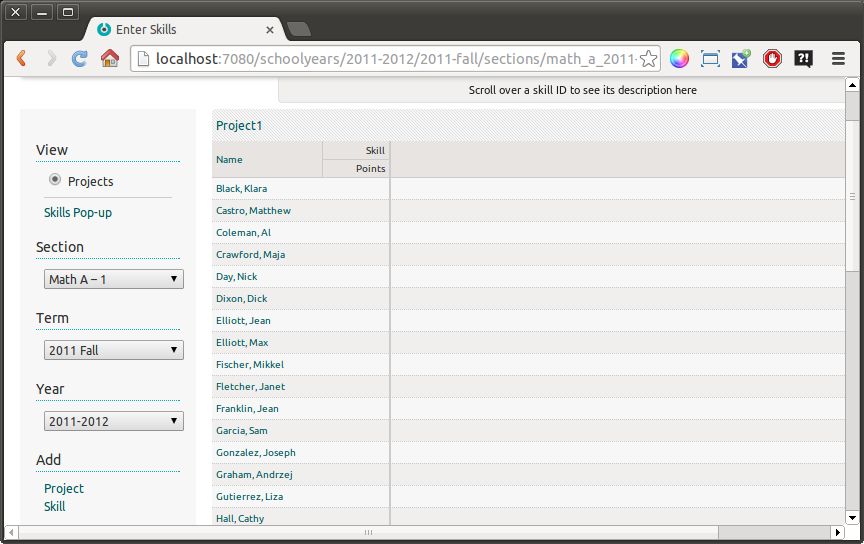
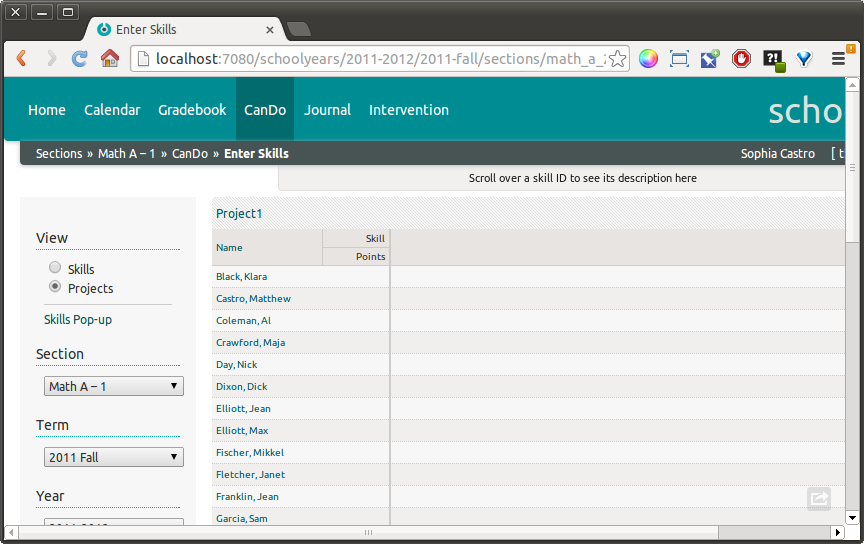
Added CanDo project docs.

diff --git a/source/cando-project.rst b/source/cando-project.rst
@@ -1,7 +1,20 @@
+Using Project Worksheets
+========================
+
+The "Skills" view of a teacher's CanDo gradebook is organized by Skill Sets assigned to the course.
+
+The "Projects" view allows teachers to add individual skills to a section, and organize them freely.  
+
+.. NOTE::
+   
+   Scores entered in the **Projects** worksheets are "inherited" by the **Skill Set** worksheets, but not vice versa.  For example, if Skill A has a score of "2" in the **Skill Set** worksheet, and a new Project is created containing Skill A, no score will appear in the Project worksheet.  This reflects the fact that the Project has not been evaluated, the skill has not been evaluated in the context of the project.  The Score History in the Project worksheet only shows the scores entered in the project.
+   
+   Once Skill A is evaluated in the project, the core will also appear in the **Skill Sets** view and Score History.  If it is subsequently updated in the **Skill Sets** view, the score in the **Projects** worksheet will not be updated.
+
 Adding Skills to Projects
 -------------------------
 
-A teacher gradebook with no skills assigned to the course will look like this:
+Click the **View: Projects** radio button in the left sidebar:
 
    .. image:: images/cando-projects-1.png
    
@@ -23,16 +36,26 @@ And **Done** to return to the gradebook:
 
 To add a Skill to the current project, click **Add: Skill** in the left sidebar.  Use the form to search for the skill you would like to add.  You can use the checkboxes to select specific layers in the skills hierarchy.
 
+.. WARNING::
+   
+   This search is currently buggy.  You can only reliably search for Skill Sets.
+
+
    .. image:: images/cando-projects-6.png
 
 Clicking on the title of the Skill, Skill Set or other node will take you to a form displaying a Skill Set or list of Skill Sets.  
 
    .. image:: images/cando-projects-7.png
 
-In this case, you see the Basic Geometry Skill Set, with the trigonometry skill pre-selected.  You could also add other Skills from this set at this time if you wished.  
+In this case, you see the Basic Geometry Skill Set.  We'll select "Identify and explain basic Trigonometric functions and their application in determining lengths and angles."  You could also add other Skills from this set at this time if you wished.  
 
 Click **Submit**:
 
    .. image:: images/cando-projects-8.png
    
 The skill has been added to the project.
+
+You can now add additional skills from different Skill Sets, different Documents, or even newly created ones.
+
+The Skills in the **Project** view are scored just like the **Skill Set** view.
+

diff --git a/source/translations.rst b/source/translations.rst
@@ -41,11 +41,15 @@ To install a translation that has been entered into Launchpad but not yet includ
 
 For languages other than Russian, the "ru" below should be replaced with the relevant prefix. 
 
+You must repeat these steps for each translated component of SchoolTool.
+
  * Go to the relevant translation download page, for example, the Russian translation at https://translations.launchpad.net/schooltool/flourish/+pots/schooltool/ru/+export
 
  * Select "MO export" and request download.
 
  * You will get an email in a few minutes. Save the file to disk.
+ 
+ * Transfer the file(s) to the server if downloaded from another computer.
 
  * Replace current translations with the exported file.  A user with superuser (root) privileges needs to move the file to where SchoolTool will find it::
  

diff --git a/source/cando-entry.rst b/source/cando-entry.rst
@@ -70,3 +70,5 @@ Similarly, clicking a student name brings up another pop-up menu:
 **Score history** shows the student's scores including past revisions:
 
    .. image:: images/cando-entry-15.png
+
+Note that the **Skills** view is the definitive view for **Score History** in the section.  In **Projects** mode, the score history for *that project* will be displayed.

diff --git a/source/cando-toc.rst b/source/cando-toc.rst
@@ -10,3 +10,4 @@ Contents:
    cando-import
    cando-assign
    cando-entry
+   cando-project
